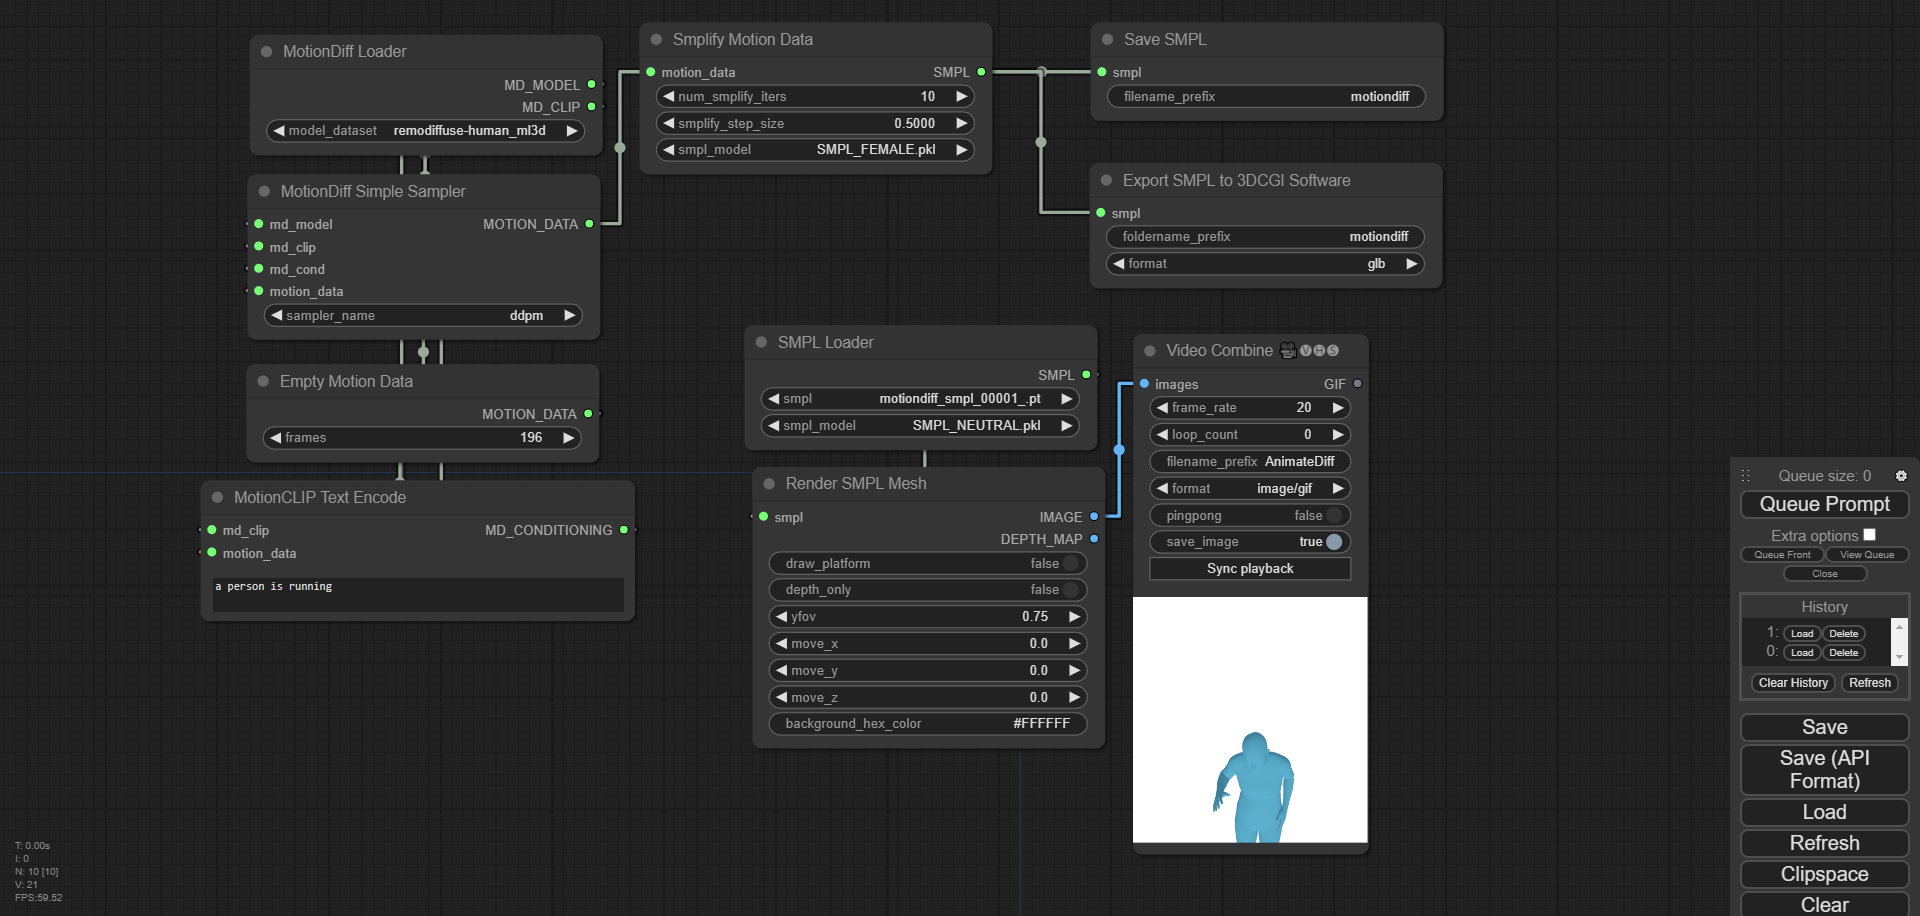
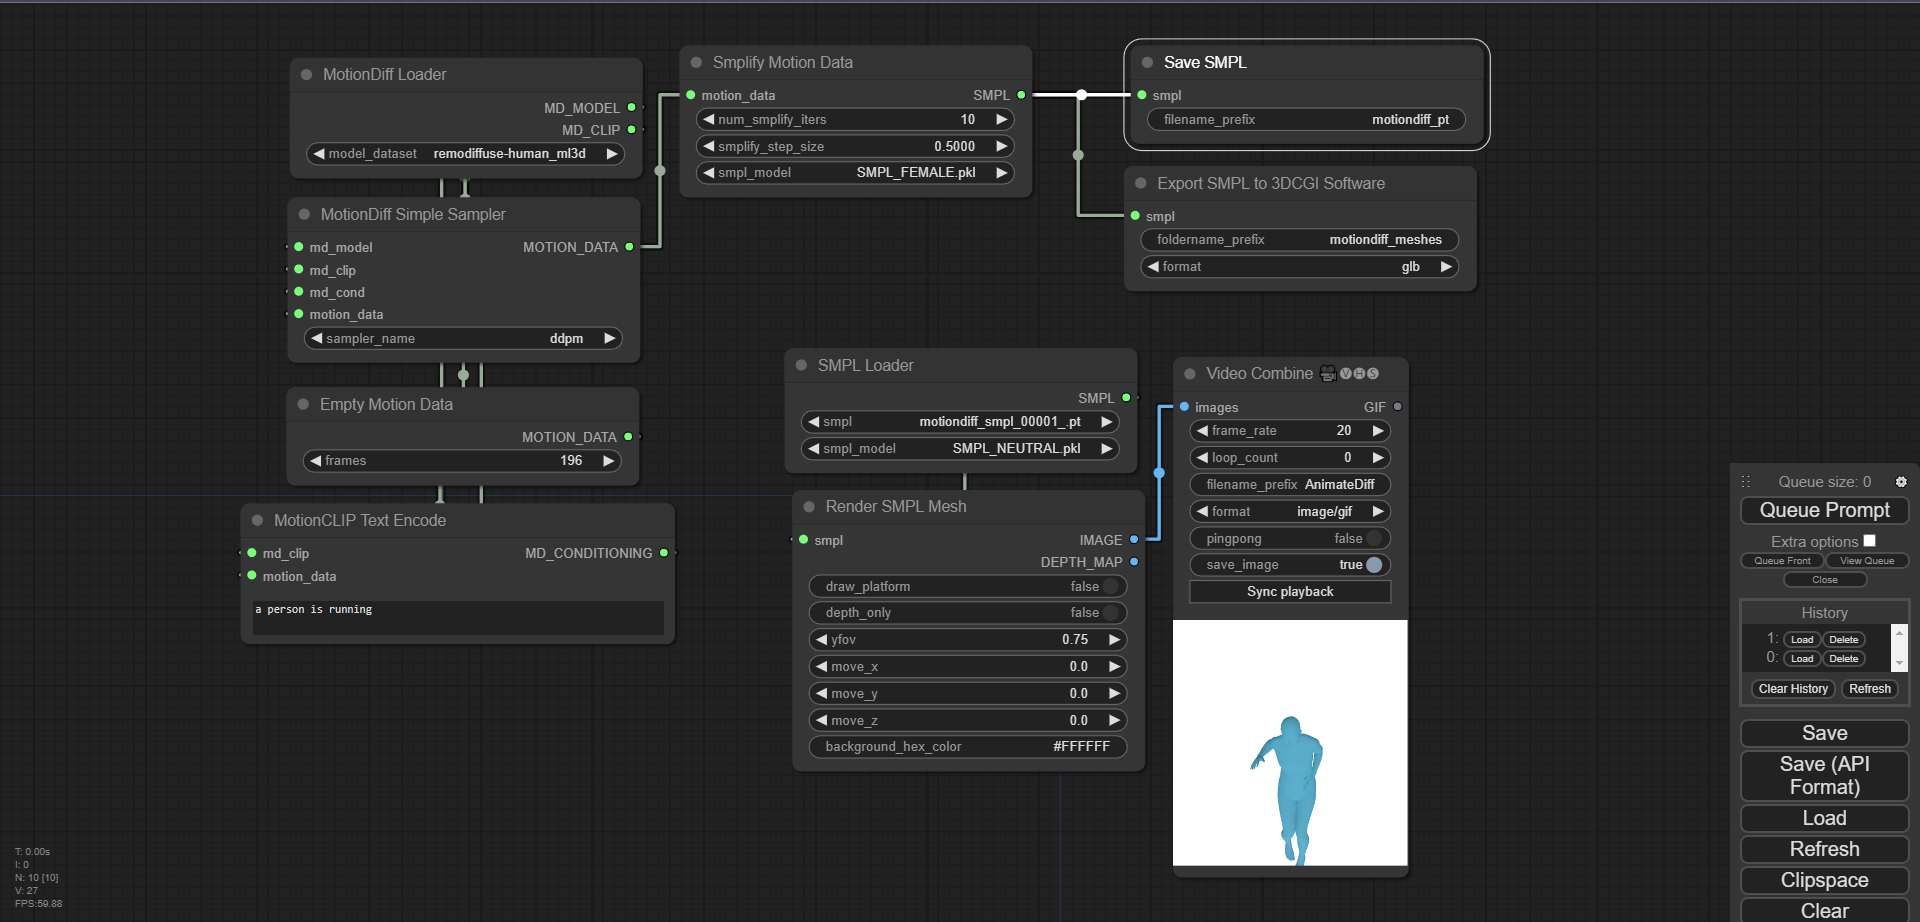
i

Changed region(s): [[0.0, 0.0, 1.0, 0.6725], [0.375, 0.3668, 0.75, 0.9476], [0.9062, 0.5197, 1.0, 0.9476]]

diff --git a/smpl_nodes.py b/smpl_nodes.py
@@ -164,7 +164,7 @@ class SaveSMPL:
         return {
             "required": {
                 "smpl": ("SMPL", ),
-                "filename_prefix": ("STRING", {"default": "motiondiff"})
+                "filename_prefix": ("STRING", {"default": "motiondiff_pt"})
             }
         }
 
